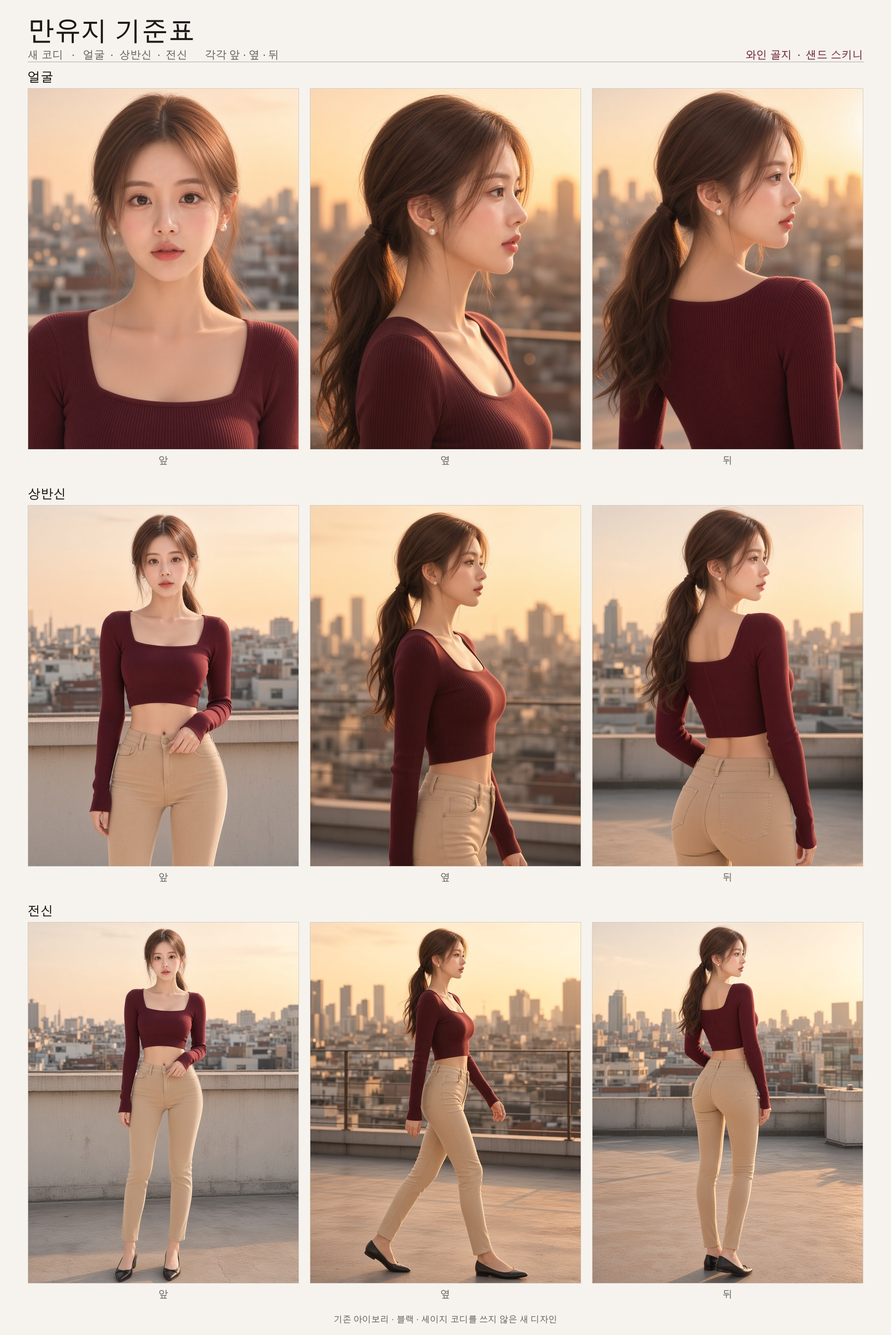
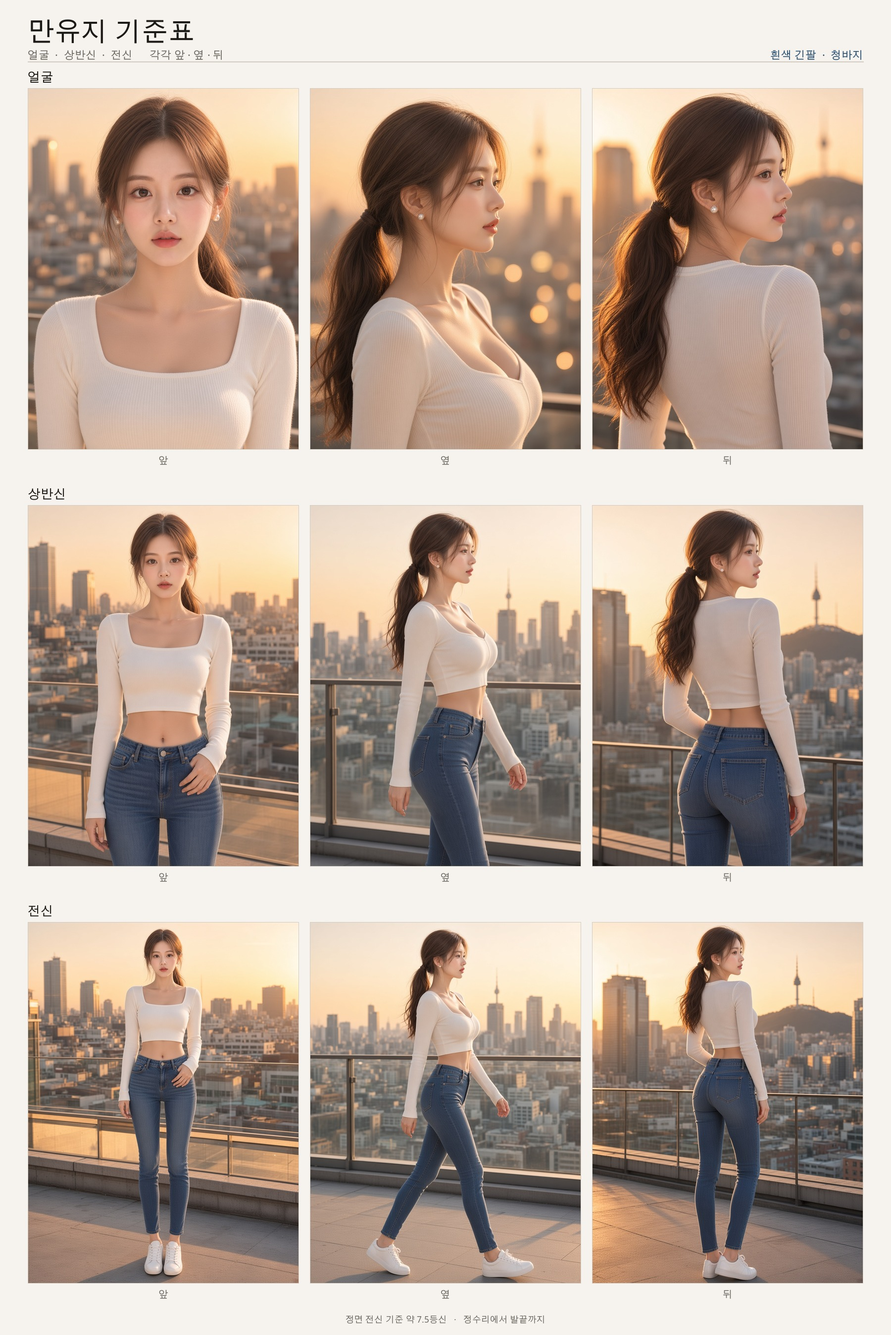
Change the Manyuji coord sheet to a white top and jeans.
The standing front view is about 7.5 heads from crown to sole.

diff --git a/docs/manyuji/GUIDELINE.md b/docs/manyuji/GUIDELINE.md
@@ -38,7 +38,7 @@
 | 두상 참고 | `references/face-set-bob.jpg` | 단발. 정수리와 옆 폭. 얼굴 인상에는 쓰지 않는다 |
 | 두상 참고 | `references/face-set-bun.jpg` | 낮은 번. 후두가 목에 붙는 높이. 얼굴 인상에는 쓰지 않는다 |
 
-`references/face-front.jpg`, `references/face-side.jpg`, `references/face.jpg`, `references/cafe-white-approved.jpg`, `references/face-fit-front.jpg`, `references/face-fit-side.jpg`, `references/face-fit-source.jpg`의 얼굴은 이전 얼굴이다. 얼굴에는 쓰지 않는다. `standard-sheet.jpg`는 확정 사진을 모아 둔 표다. `coord-sheet.jpg`는 그 옷을 베끼지 않고 새로 만든 코디다. 와인 골지 긴팔, 샌드 스키니진, 서울 옥상이다. 얼굴, 상반신, 전신을 각각 앞·옆·뒤로 뒀다. 이미지 AI에는 표를 올리지 않고 원본 네 장을 올린다. `face-set-bob.jpg`와 `face-set-bun.jpg`는 두상 폭만 본다.
+`references/face-front.jpg`, `references/face-side.jpg`, `references/face.jpg`, `references/cafe-white-approved.jpg`, `references/face-fit-front.jpg`, `references/face-fit-side.jpg`, `references/face-fit-source.jpg`의 얼굴은 이전 얼굴이다. 얼굴에는 쓰지 않는다. `standard-sheet.jpg`는 확정 사진을 모아 둔 표다. `coord-sheet.jpg`는 새로 만든 코디다. 흰색 골지 긴팔, 청바지, 서울 옥상이다. 정면 전신은 정수리에서 발끝까지 약 7.5등신이다. 얼굴, 상반신, 전신을 각각 앞·옆·뒤로 뒀다. 이미지 AI에는 표를 올리지 않고 원본 네 장을 올린다. `face-set-bob.jpg`와 `face-set-bun.jpg`는 두상 폭만 본다.
 
 다른 AI에 넣을 때는 `face-absolute.jpg`, `locked-front.jpg`, `locked-side.jpg`, `locked-back.jpg` 네 장만 넣는다. 이전 얼굴이나 흰 티 전신을 같이 넣으면 얼굴이 돌아간다. `references/face-eye-smile-above.jpg`는 얼굴이 더 둥글고 매끈해서 얼굴 기준에 넣지 않는다. 가슴 크기는 얼굴 사진이 아니라 70B 규칙을 따른다.
 
